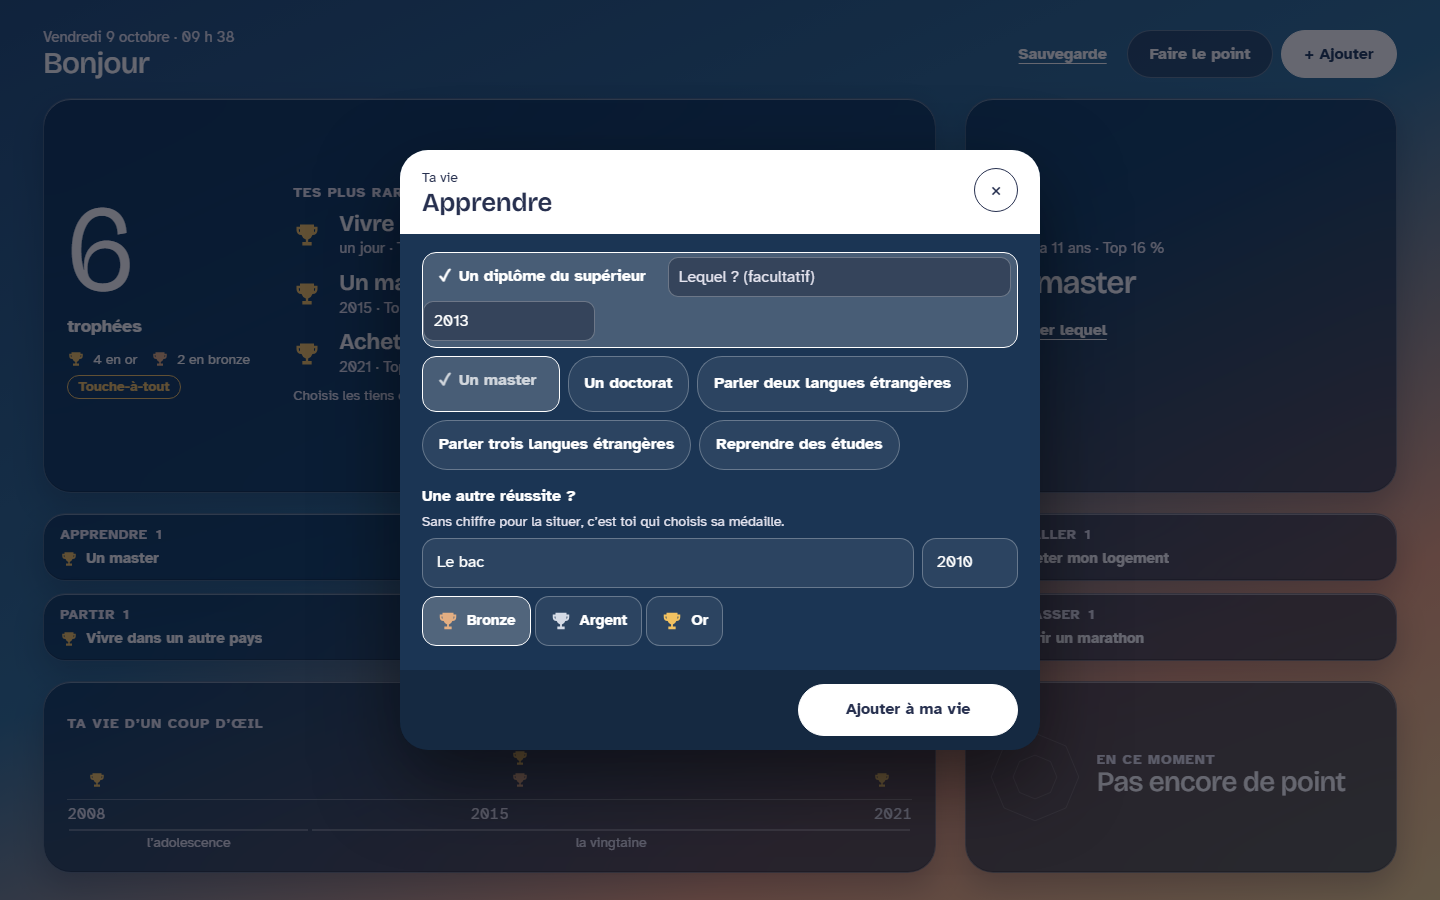
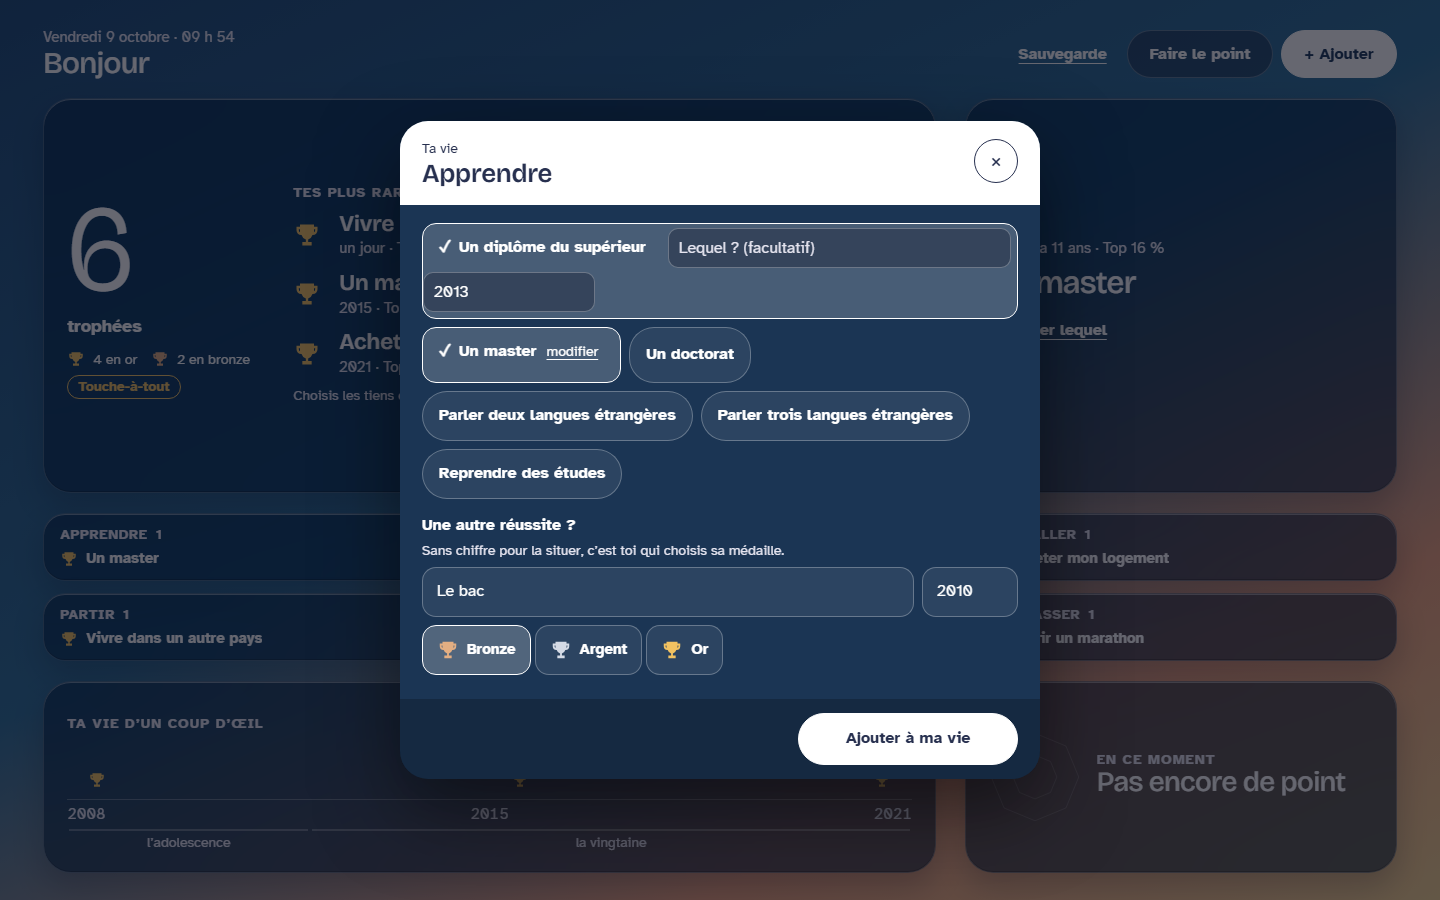
Trophées de vie : modifier ou retirer un trophée depuis sa tuile
Dans une tuile, une réussite déjà enregistrée restait cochée et inerte : on
ne pouvait ni la changer ni l'enlever sans passer par « Tout voir ». Elle
ouvre maintenant sa fiche, qui gagne un bouton « Retirer ce trophée » avec
annulation. Les trophées écrits à la main y sont listés aussi.

Changed region(s): [[0.25, 0.1244, 0.75, 0.7778], [0.2812, 0.7467, 0.7188, 0.8711], [0.625, 0.5911, 0.6875, 0.6844]]

diff --git a/trophees-de-vie/js/app.js b/trophees-de-vie/js/app.js
@@ -4,10 +4,10 @@
 
 // Le numéro suit celui d'index.html : Pages garde un fichier dix minutes, et sans lui
 // un nouvel app.js pourrait charger une ancienne configuration.
-import { ouvrir, demanderPersistance } from './stockage.js?v=11';
-import { NIVEAUX, CATEGORIES, REUSSITES, CATALOGUE, BADGE_TOUT } from './config/vie.js?v=11';
-import { DOMAINES, METEOS, ELANS, MOIS, JOURS } from './config/domaines.js?v=11';
-import { lire, definition, rarete, medaille, dejaFaites, comptes, parCategorie, hautsFaits, plusRares, badges, ruban, decennies, souvenirDuJour, dernierPoint, pointDavant, phraseRoue } from './coeur.js?v=11';
+import { ouvrir, demanderPersistance } from './stockage.js?v=12';
+import { NIVEAUX, CATEGORIES, REUSSITES, CATALOGUE, BADGE_TOUT } from './config/vie.js?v=12';
+import { DOMAINES, METEOS, ELANS, MOIS, JOURS } from './config/domaines.js?v=12';
+import { lire, definition, rarete, medaille, dejaFaites, comptes, parCategorie, hautsFaits, plusRares, badges, ruban, decennies, souvenirDuJour, dernierPoint, pointDavant, phraseRoue } from './coeur.js?v=12';
 
 const NS = 'http://www.w3.org/2000/svg';
 const $ = (id) => document.getElementById(id);
@@ -380,7 +380,9 @@ function question(corps, id, texte, reponse, { aide, sansNiveau } = {}) {
 // l'année, et seulement si c'est un événement. Sa médaille est celle de sa rareté ou
 // celle proposée : elle se change ensuite dans « Tout voir ». Déjà dans la vie, elle
 // reste cochée.
-function puces(corps, reussites, coches, deja, quandChange) {
+// `quandDeja` : ce qui se passe quand on touche une réussite déjà dans la vie. Sans lui,
+// elle reste cochée et inerte.
+function puces(corps, reussites, coches, deja, quandChange, quandDeja) {
   const c = el('div', 'chips');
   const dessinerUne = (r) => {
     const boite = el('div', 'puce');
@@ -388,6 +390,14 @@ function puces(corps, reussites, coches, deja, quandChange) {
     const reponse = coches.get(r.id);
     const b = bouton('puce-t', r.titre, fait || Boolean(reponse));
     b.id = `pu-${r.id}`;
+    if (fait && quandDeja) {
+      b.title = 'Déjà dans ta vie : modifier ou retirer';
+      b.append(el('span', 'crayon', 'modifier'));
+      b.addEventListener('click', () => quandDeja(r));
+      boite.append(b);
+      boite.classList.add('on');
+      return boite;
+    }
     if (fait) { b.disabled = true; b.title = 'Déjà dans ta vie'; }
     boite.append(b);
     if (fait || reponse) boite.classList.add('on');
@@ -522,7 +532,24 @@ function ouvrirCategorie(cat) {
   const coches = new Map();
   const libre = { niveau: 'argent' };
   ouvrirVolet('add', [{ label: 'Ta vie', titre: cat.nom, dessiner(corps) {
-    puces(corps, groupe(cat), coches, dejaFaites(etat.moments, CATALOGUE));
+    puces(corps, groupe(cat), coches, dejaFaites(etat.moments, CATALOGUE), null, (r) => {
+      const m = etat.moments.find((x) => definition(x, CATALOGUE)?.id === r.id);
+      if (m) ouvrirEdition(m, 'page');
+    });
+    // Les trophées écrits à la main dans cette catégorie se retrouvent ici aussi.
+    const libres = etat.vus.filter((t) => t.categorie === cat.id && !definition(t, CATALOGUE));
+    if (libres.length) {
+      const c = el('div', 'chips');
+      for (const t of libres) {
+        const boite = el('div', 'puce on');
+        const b = bouton('puce-t', t.titre, true);
+        b.append(el('span', 'crayon', 'modifier'));
+        b.addEventListener('click', () => ouvrirEdition(etat.moments.find((x) => x.id === t.id), 'page'));
+        boite.append(b);
+        c.append(boite);
+      }
+      corps.append(c);
+    }
     question(corps, 'libre', 'Une autre réussite ?', libre, { aide: 'Sans chiffre pour la situer, c’est toi qui choisis sa médaille.' });
   } }], 'Ajouter à ma vie', async () => {
     const nouveaux = momentsCoches(coches);
@@ -645,12 +672,20 @@ function ouvrirEdition(m, retour = 'parcours') {
     }
     const q = el('div', 'q');
     const lb = el('label', null, 'Un souvenir de ce jour-là ?');
+    const oter = bouton('lien', 'Retirer ce trophée');
+    oter.id = 'retirer';
+    oter.addEventListener('click', async () => {
+      await etat.base.retirer('moments', m.id);
+      await rafraichir();
+      if (retour === 'page') fermerVolet(); else ouvrirParcours();
+      annoncer('Trophée retiré', m.titre, { texte: 'Annuler', faire: async () => { await etat.base.remettre('moments', m.id); await rafraichir(); if (flux && retour !== 'page') ouvrirParcours(); } });
+    });
     const note = el('input', 'field');
     note.type = 'text'; note.id = 'q-note'; note.maxLength = 200; note.placeholder = 'Une phrase, si tu veux'; note.value = r.note;
     note.addEventListener('input', () => { r.note = note.value; });
     lb.htmlFor = note.id;
     q.append(lb, note);
-    corps.append(q);
+    corps.append(q, oter);
   } }], 'Enregistrer', async () => {
     if (rempli(r)) await etat.base.ecrire('moments', { ...m, titre: r.titre.trim(), annee: anneeValide(r.annee), niveau: r.niveau, note: r.note.trim(), categorie: def ? m.categorie ?? null : r.categorie });
     await rafraichir();

diff --git a/trophees-de-vie/index.html b/trophees-de-vie/index.html
@@ -8,7 +8,7 @@
 <meta name="theme-color" content="#1E4C78">
 <link rel="icon" href="icone.svg" type="image/svg+xml">
 <link rel="preload" href="polices/bricolage.woff2" as="font" type="font/woff2" crossorigin>
-<link rel="stylesheet" href="css/app.css?v=11">
+<link rel="stylesheet" href="css/app.css?v=12">
 </head>
 <body>
 <div class="page">
@@ -60,6 +60,6 @@
 </div>
 <div class="toast" id="toast" role="status" aria-live="polite"></div>
 
-<script type="module" src="js/app.js?v=11"></script>
+<script type="module" src="js/app.js?v=12"></script>
 </body>
 </html>

diff --git a/trophees-de-vie/css/app.css b/trophees-de-vie/css/app.css
@@ -315,3 +315,7 @@ h1{font-size:30px}
 #axes{column-gap:var(--gouttiere)}
 @media (max-height:800px){ .page{--gouttiere:16px} }
 @media (max-width:900px){ .page,.page.vide{grid-template-columns:minmax(0,1fr);grid-template-areas:"top" "bl" "sv" "ax" "rb" "cv"} .page.vide{grid-template-areas:"top" "sv" "ax" "rb" "cv"} }
+
+/* v12 : une réussite déjà enregistrée se rouvre depuis sa tuile */
+.crayon{margin-left:10px;font-size:14px;font-weight:400;text-decoration:underline;text-underline-offset:3px}
+.dlg-body > .lien{align-self:flex-start}
